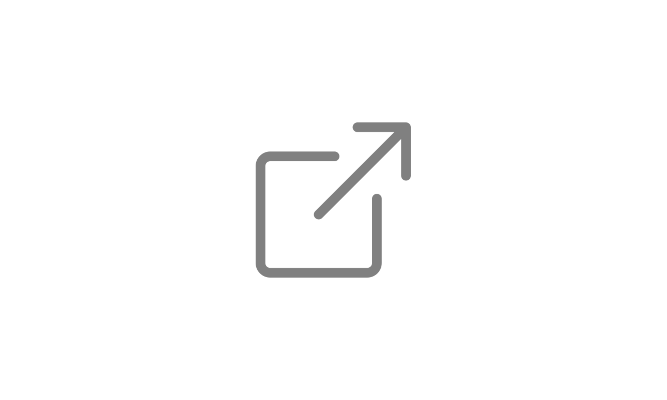
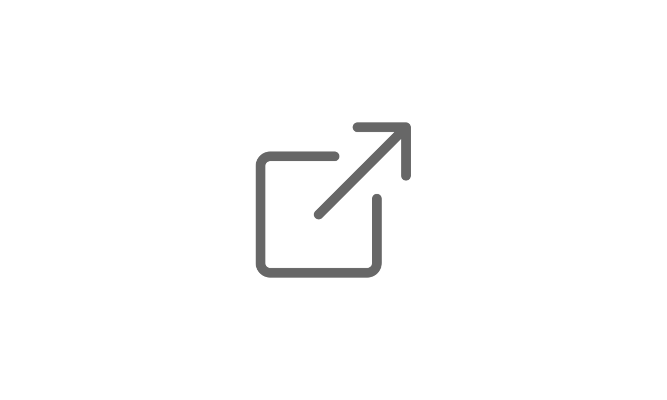
Part 5 : borders and backgrounds

Changed region(s): [[0.3598, 0.3, 0.6297, 0.69]]

diff --git a/assets/styles/_variables.scss b/assets/styles/_variables.scss
@@ -20,17 +20,22 @@ $caramel: #c08552;
 $linen: #f3e6dc;
 $night: #121417;
 $light: white;
-$grey: #5a5a5a;
+$greyl: #a0a0a0;
+$greym: #646464;
+$greyd: #3d3d3d;
 $dark: black;
 
 // $primary: $rosewood;
-// $secondary: $caramel;
+
+$secondary: $greym;
+
 // $success: #09d199;
 // $info: #6a8caf;
 // $warning: #ff5b44;
 // $danger: #e2293f;
-// $light: white;
-// $dark: black;
+
+$light: white;
+$dark: black;
 
 ///////////////////////////////////
 // Variables Light ////////////////
@@ -43,15 +48,10 @@ $app-colors: (
   'app-navbar-muted-color': rgba($linen, 0.5),
   'app-navbar-bg-color': $carmine,
   'app-navbar-border-color': rgba($linen, 0.7),
+  'app-avatar-icon-color': $greyd,
+  'app-home-card-shadow-color': rgba($greym, 0.1),
+  'app-home-card-hover-color': $carmine,
 );
-
-// Navbar
-
-$navbar-light-color: rgba($linen, 0.7);
-$navbar-light-hover-color: $linen;
-$navbar-light-active-color: $linen;
-$navbar-light-brand-color: $navbar-light-color;
-$navbar-light-brand-hover-color: $navbar-light-hover-color;
 
 // Body
 
@@ -60,24 +60,24 @@ $body-bg: $linen;
 $body-secondary-color: rgba($night, 0.7);
 $body-secondary-bg: rgba($linen, 0.7);
 $body-tertiary-color: orange;
-$body-tertiary-bg: cyan;
+$body-tertiary-bg: color.adjust($greyl, $lightness: +10%);
 $body-emphasis-color: purple;
+
+// Subtle
+
+$primary-bg-subtle: color.adjust($linen, $lightness: -3%);
+$secondary-bg-subtle: color.adjust($linen, $lightness: -10%, $saturation: -20%);
 
 // Border
 
-// $border-color: rgba($night, 0.7);
+$border-color: rgba($greyl, 1);
+
 // $border-color-translucent: rgba($night, 0.7);
 
-// Cards
-
-$primary-bg-subtle: color.adjust($linen, $lightness: -3%);
-$primary-border-subtle: rgba($grey, 0.3);
-$secondary-bg-subtle: color.adjust($linen, $lightness: -8%);
-$secondary-border-subtle: $carmine;
-
 // // Links
-// $link-color: darken($rosewood, 5%);
-// $link-hover-color: lighten($rosewood, 10%);
+
+$link-color: color.adjust($night, $lightness: +15%);
+$link-hover-color: $night;
 
 // // Shadows
 // $box-shadow: 0 0.5rem 1rem rgba($rosewood, 0.15);
@@ -106,14 +106,15 @@ $secondary-border-subtle: $carmine;
 ///////////////////////////////////
 
 // $component-active-bg: $feldgrau !default;
-
-$border-width: 2px !default;
-
-// $border-radius: 0.15rem !default;
-// $border-radius-sm: 0.05rem !default;
-
 // $enable-rounded:              false !default;
 
+$navbar-light-color: rgba($linen, 0.7);
+$navbar-light-hover-color: $linen;
+$navbar-light-active-color: $linen;
+$navbar-light-brand-color: $navbar-light-color;
+$navbar-light-brand-hover-color: $navbar-light-hover-color;
+$border-width: 2px !default;
+$border-radius: 1rem !default;
 $progress-bar-transition: width 0.3s ease;
 $modal-transition: transform 0.15s ease-out;
 $modal-fade-transform: translate(0, -50px);

diff --git a/assets/styles/_custom.scss b/assets/styles/_custom.scss
@@ -23,6 +23,8 @@ input + label.form-label.required::after,
 textarea + label.form-label.required::after,
 legend.col-form-label.required::after {
   content: ' *';
+
+  // todo : change primary
   color: $primary !important;
 }
 
@@ -78,6 +80,8 @@ legend.col-form-label.required::after {
 
 .app-navbar-btn {
   @include app-neon-small(2px, var(--app-navbar-text-color), var(--app-navbar-text-color), 0.2);
+
+  border-radius: var(--bs-border-radius);
 }
 
 // Home intro /////////////////////
@@ -93,6 +97,9 @@ legend.col-form-label.required::after {
     var(--app-navbar-bg-color),
     1
   );
+
+  border-radius: var(--bs-border-radius);
+  border-radius: calc(2 * var(--bs-border-radius));
 }
 
 .app-home-gradient {
@@ -105,7 +112,7 @@ legend.col-form-label.required::after {
 .app-home-card {
   width: 22rem;
   height: 28rem;
-  box-shadow: inset 0 0 1em 0.2rem rgba($grey, 0.1);
+  box-shadow: inset 0 0 1em 0.2rem var(--app-home-card-shadow-color);
   transition:
     box-shadow 0.05s ease,
     border-color 0.05s ease;
@@ -113,9 +120,9 @@ legend.col-form-label.required::after {
   &:hover {
     // transform: scale(1.05);
     box-shadow:
-      inset 0 0 1em 0.2rem var(--bs-secondary-border-subtle),
-      0 0 1em 0.2rem var(--bs-secondary-border-subtle);
-    border-color: var(--bs-secondary-border-subtle) !important;
+      inset 0 0 1em 0.2rem var(--app-home-card-hover-color),
+      0 0 1em 0.2rem var(--app-home-card-hover-color);
+    border-color: var(--app-home-card-hover-color) !important;
   }
 
   .app-card-top-container {
@@ -164,7 +171,9 @@ legend.col-form-label.required::after {
   object-position: center;
   width: 100%;
   aspect-ratio: 1/1;
-  box-shadow: $box-shadow-sm !important;
+
+  // todo : écrire sa propre box shadow
+  // box-shadow: $box-shadow-sm !important;
   border-radius: 50% !important;
 }
 
@@ -176,6 +185,7 @@ legend.col-form-label.required::after {
   }
 
   .app-avatar-icon {
+    color: var(--app-avatar-icon-color);
     transition: opacity 0.3s ease;
   }
 
@@ -198,7 +208,7 @@ legend.col-form-label.required::after {
 }
 
 .app-form-row-bordered {
-  border-radius: 5px;
+  border-radius: var(--bs-border-radius);
   border: var(--bs-border-color) var(--bs-border-style) var(--bs-border-width);
   padding: ($spacer * 0.5);
 }

diff --git a/assets/styles/_variables-dark.scss b/assets/styles/_variables-dark.scss
@@ -13,6 +13,9 @@ $app-colors-dark: (
   'app-navbar-muted-color': rgba($linen, 0.5),
   'app-navbar-bg-color': $rosewood,
   'app-navbar-border-color': rgba($linen, 0.7),
+  'app-avatar-icon-color': $greyl,
+  'app-home-card-shadow-color': rgba($greym, 0.1),
+  'app-home-card-hover-color': $rosewood,
 );
 
 // Body
@@ -22,28 +25,25 @@ $body-bg-dark: $night;
 $body-secondary-color-dark: rgba($linen, 0.7);
 $body-secondary-bg-dark: rgba($night, 0.7);
 $body-tertiary-color-dark: orange;
-$body-tertiary-bg-dark: cyan;
-$body-emphasis-color-dark: purple;
+$body-tertiary-bg-dark: color.adjust($greyd, $lightness: -10%);
+
+// $body-emphasis-color-dark: purple;
+
+// Subtle
+
+$primary-bg-subtle-dark: color.adjust($night, $lightness: 3%);
+$secondary-bg-subtle-dark: color.adjust($night, $lightness: 8%);
 
 // Border
 
-// $border-color-dark: rgba($linen, 0.7);
+$border-color-dark: rgba($greyd, 1);
+
 // $border-color-translucent: rgba($linen, 0.7);
 
-// Cards
+// Links
 
-$primary-bg-subtle-dark: color.adjust($night, $lightness: 3%);
-$primary-border-subtle-dark: rgba($grey, 0.3);
-$secondary-bg-subtle-dark: color.adjust($night, $lightness: 8%);
-$secondary-border-subtle-dark: $rosewood;
-
-// // Couleurs des liens
-// $link-color: lighten($rosewood, 15%);
-// $link-hover-color: lighten($rosewood, 25%);
-
-// // Ombres
-// $box-shadow: 0 0.5rem 1rem rgba(darken($rosewood, 10%), 0.35);
-// $box-shadow-lg: 0 1rem 3rem rgba(darken($rosewood, 10%), 0.45);
+$link-color-dark: color.adjust($linen, $lightness: -15%, $saturation: -20%);
+$link-hover-color-dark: $linen;
 
 // // Boutons
 // $btn-font-weight: 600;

diff --git a/assets/styles/_api.scss b/assets/styles/_api.scss
@@ -60,7 +60,6 @@ $utilities: map.merge(
 }
 
 @mixin app-neon-small($border-width, $border-color, $shadow-color, $shadow-intensity) {
-  border-radius: 1rem;
   border: $border-width solid transparent;
   transition:
     border-color 0.05s ease,
@@ -73,7 +72,7 @@ $utilities: map.merge(
       inset 0 0 $shadow-intensity * 1em $shadow-color,
       0 0 $shadow-intensity * 1em $shadow-color;
     text-shadow: 0 0 $shadow-intensity * 0.5rem gray;
-    animation: flicker alternate 4s;
+    animation: flicker alternate 3s;
   }
 
   &:active,
@@ -105,29 +104,3 @@ $utilities: map.merge(
     color: transparent;
   }
 }
-
-// @keyframes flicker {
-//   // animation: flicker 8s infinite alternate;
-//   0%,
-//   19%,
-//   21%,
-//   54%,
-//   56%,
-//   100% {
-//     box-shadow:
-//       0 0 0.2rem $linen,
-//       0 0 1rem $rosewood,
-//       0 0 2rem $rosewood,
-//       0 0 3rem $rosewood;
-//   }
-
-//   20%,
-//   24%,
-//   55% {
-//     box-shadow:
-//       0 0 0.2rem $linen,
-//       0 0 0.8rem $rosewood,
-//       0 0 1.8rem $rosewood,
-//       0 0 2.8rem $rosewood;
-//   }
-// }
